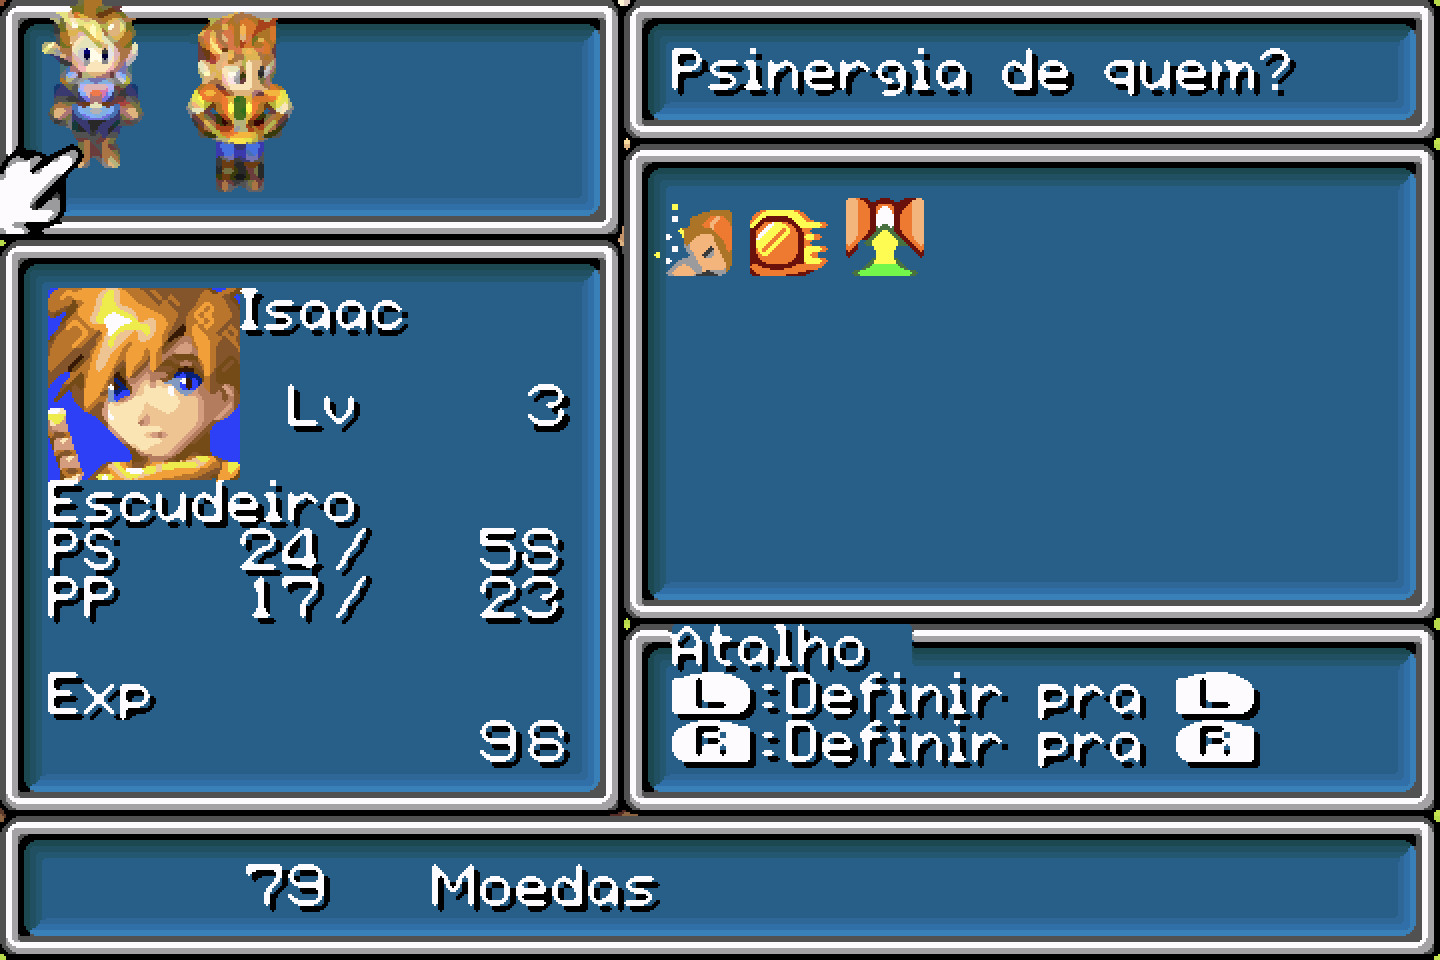
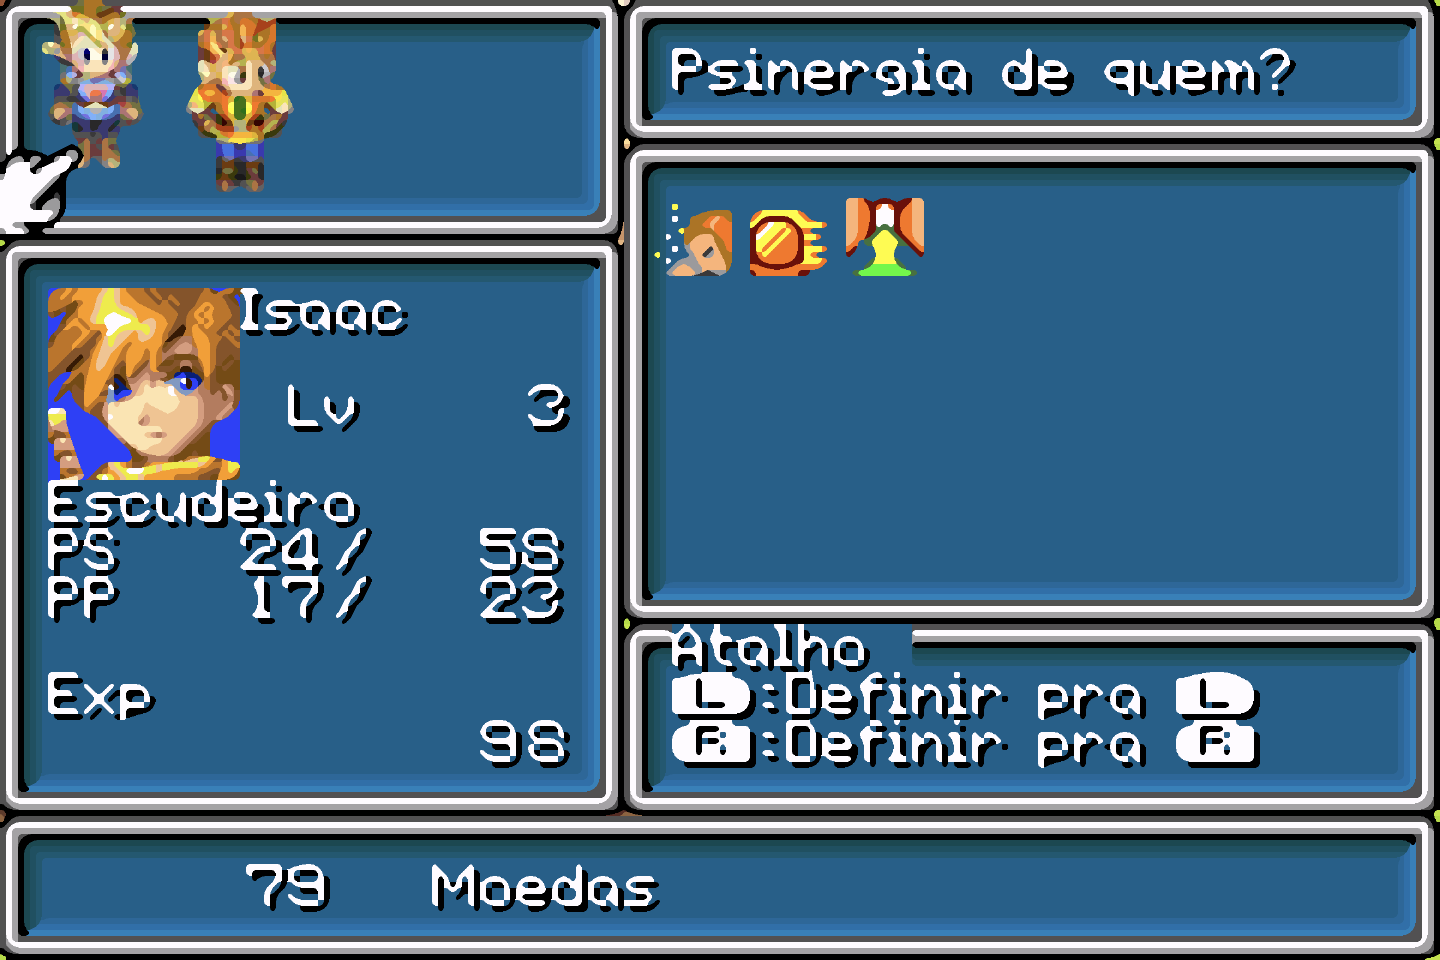
Comparison: ScaleFX 9x scaled down to 6x
The scalefx-9x preset runs ScaleFX twice; scaling its 9x output down to 6x
by area averaging gives smoother edges than 3x enlarged 2x.

diff --git a/docs/index.html b/docs/index.html
@@ -106,7 +106,7 @@ ol { margin: 0; padding-left: 1.3em; display: grid; gap: 6px; }
   <header class="prose">
     <h1>xBRZ crisp</h1>
     <p class="lede">xBRZ smooths every corner it finds, so soft shading and textures melt into blobs. xBRZ crisp only rounds a corner when its two colors are clearly different. Outlines, text and sprites are smoothed as in xBRZ, and grass, foliage and stone keep the pixels the artists drew.</p>
-    <p class="muted">Drag the line to compare. All frames are Game Boy Advance screens at 6x, rendered with the RetroArch shader code. Integer scaling shows the original pixels. MMPX Advanced is the libretro scalenx shader at 2x, enlarged 3x, and ScaleFX is the libretro scalefx shader (latest version, 2017) at 3x, enlarged 2x.</p>
+    <p class="muted">Drag the line to compare. All frames are Game Boy Advance screens at 6x, rendered with the RetroArch shader code. Integer scaling shows the original pixels. MMPX Advanced is the libretro scalenx shader at 2x, enlarged 3x, and ScaleFX is the libretro scalefx-9x preset at 9x, scaled down to 6x by area averaging.</p>
   </header>
 
   <section class="controls" aria-label="Comparison settings">
